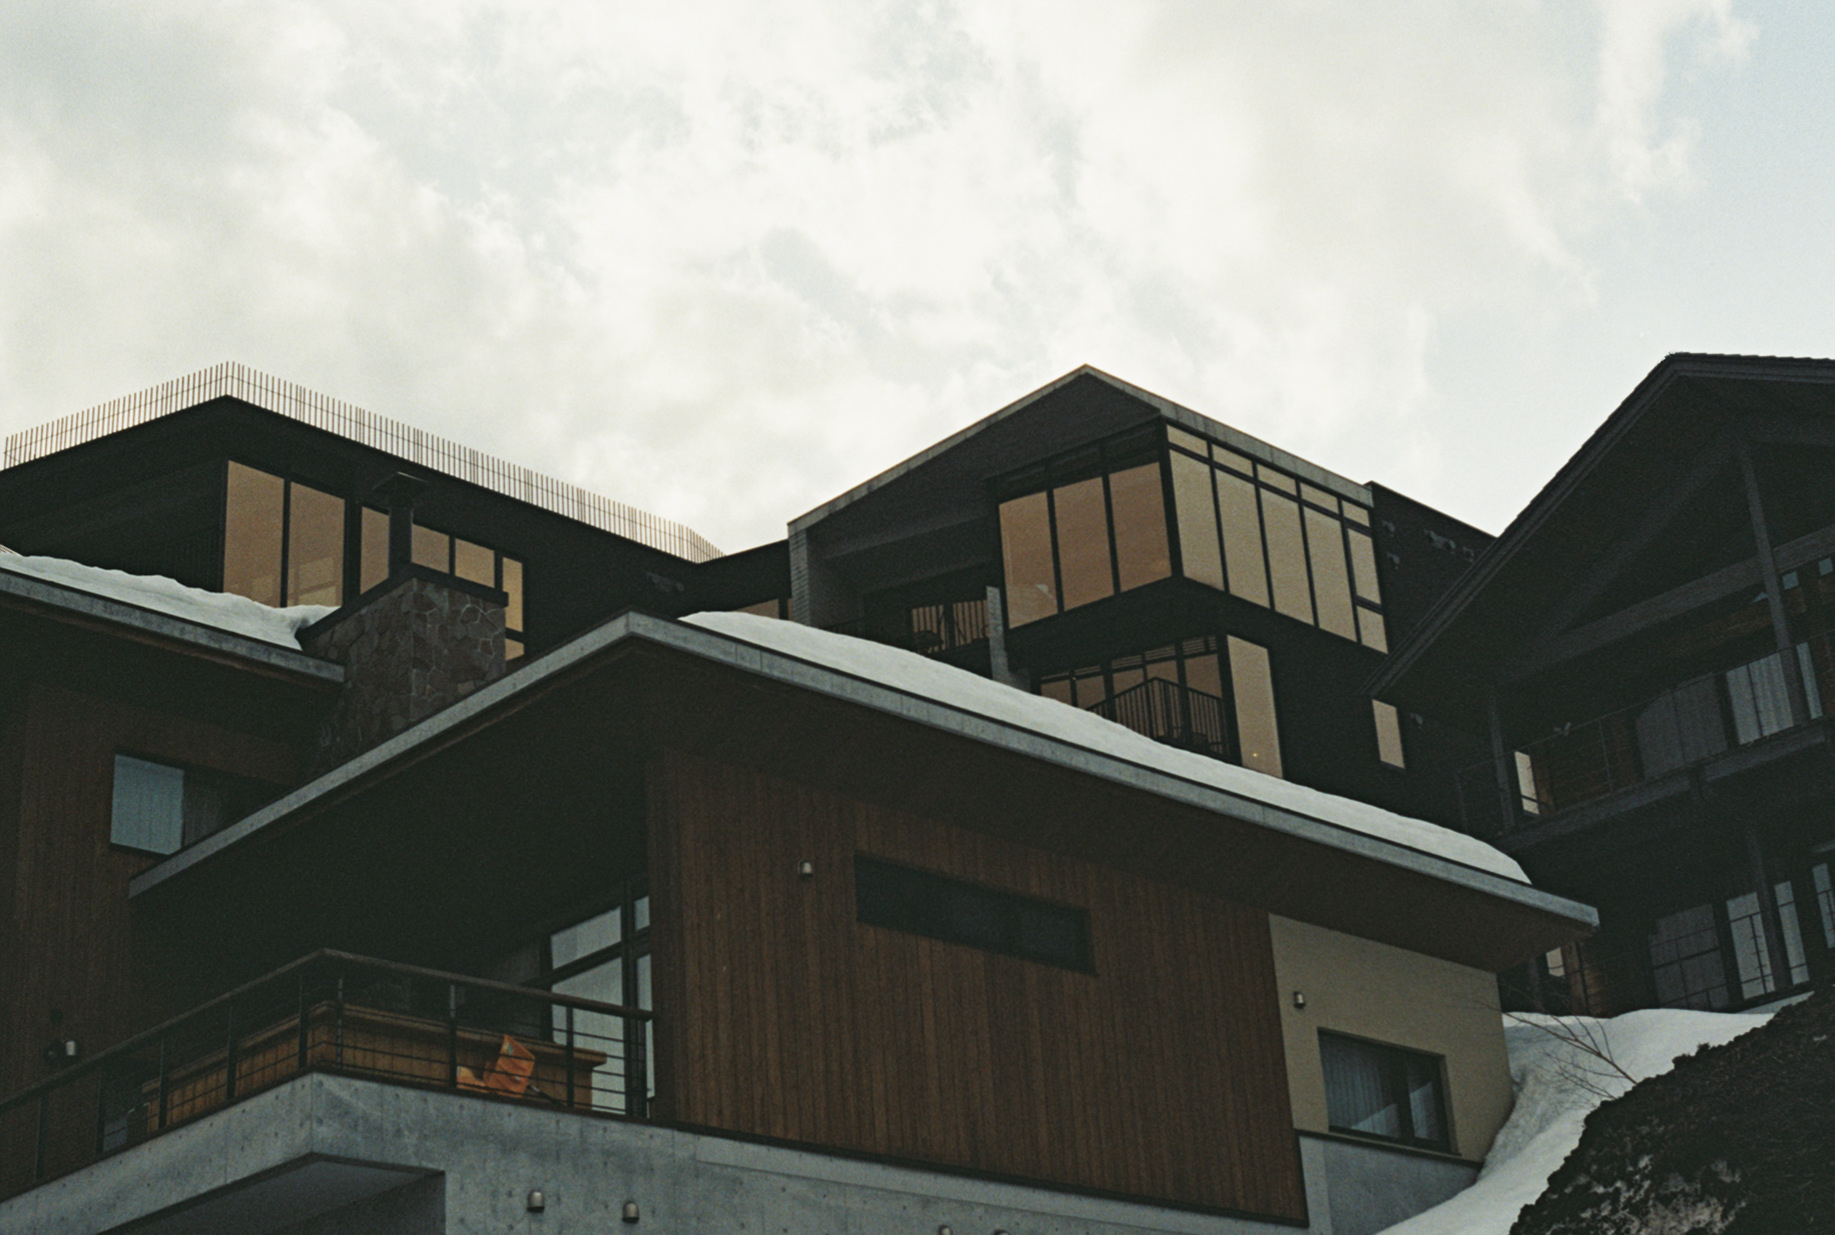
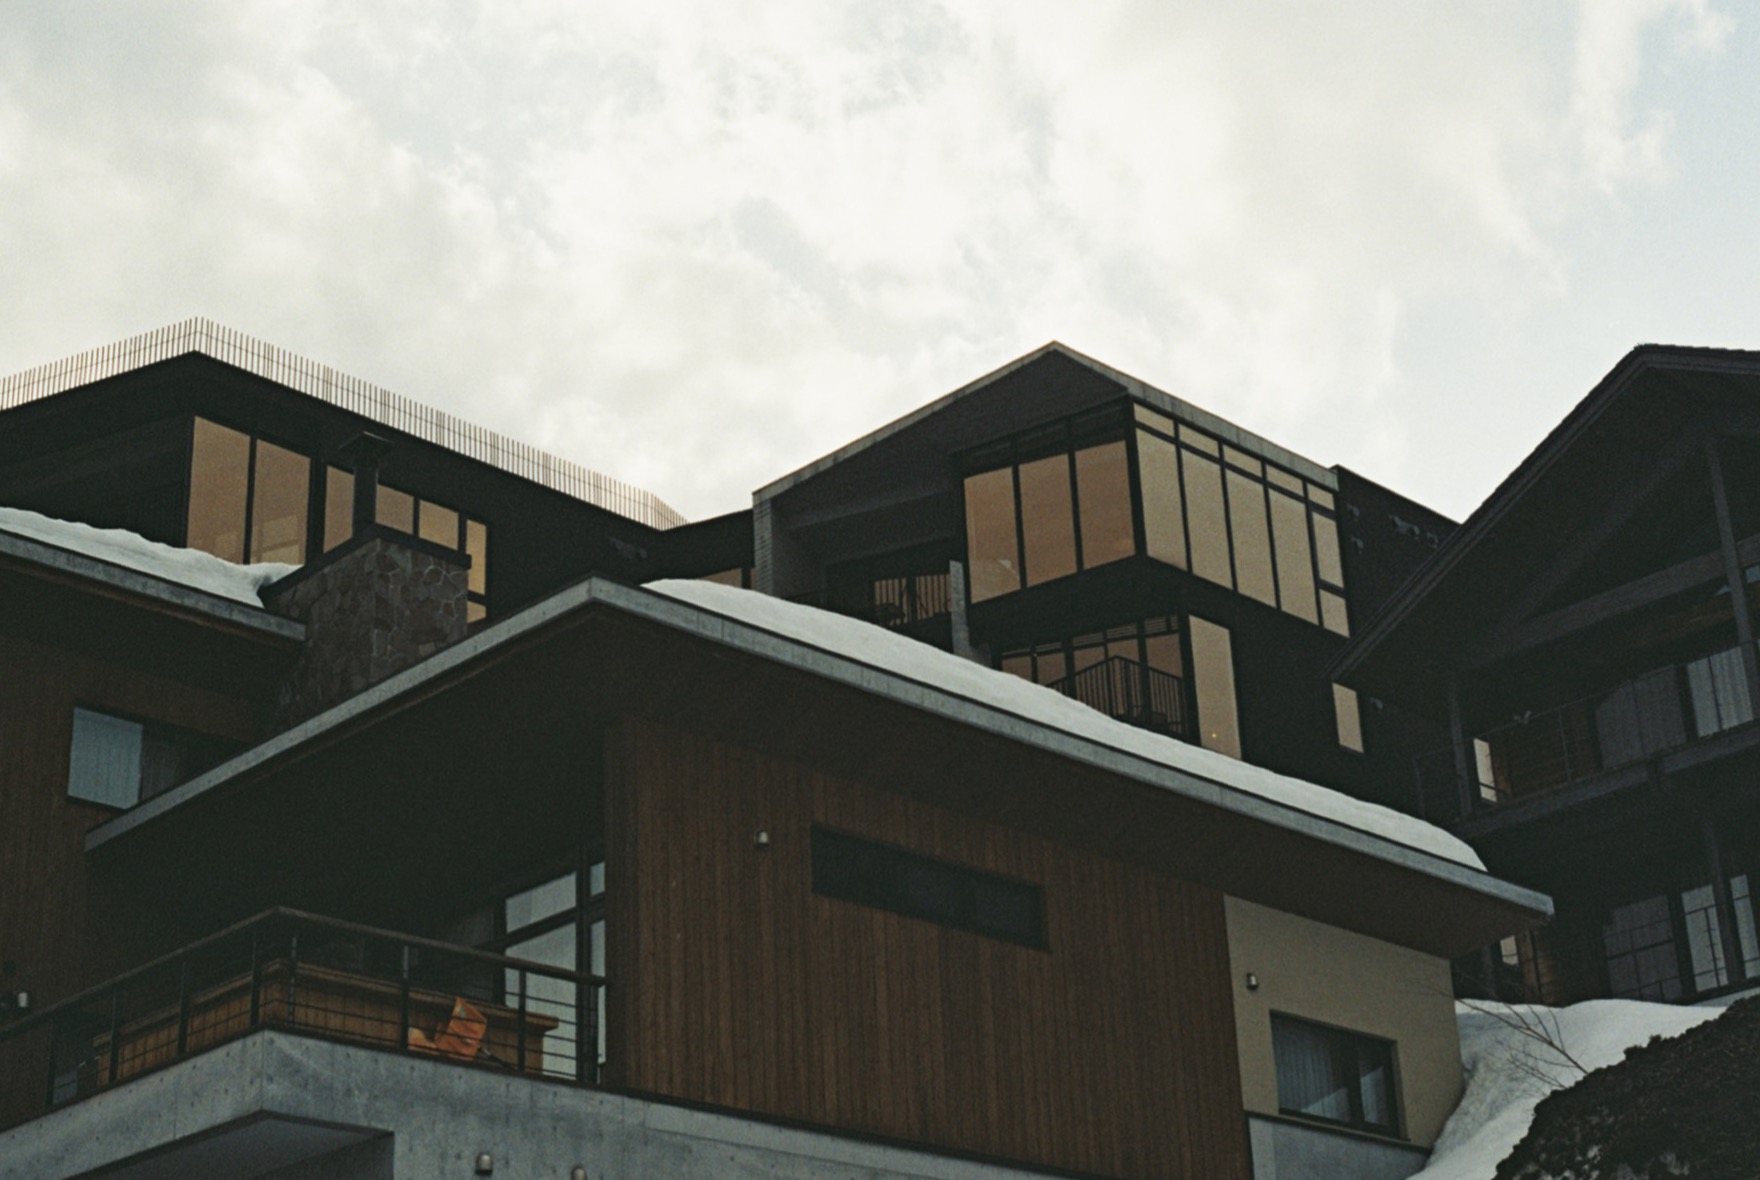
Update photography descriptions, groupings, and straighten horizons on photo 5 and 10

diff --git a/photography.html b/photography.html
@@ -67,49 +67,49 @@
       </div>
 
       <!-- Arch 2 (Wide Structural Facade) -->
-      <div class="collage-item is-wide" data-category="arch" data-title="Structural Rhythm & Facade Alignment" data-tag="02 / Architecture" data-meta="Repetitive Geometry · Glazing & Shadow">
-        <img src="assets/photography/arch/IMG_6335.jpeg" alt="Structural Facade Alignment" loading="lazy">
+      <div class="collage-item is-wide" data-category="arch" data-title="Structural Rhythm & Angular Geometry" data-tag="02 / Architecture" data-meta="Structural Rhythm & Angular Geometry">
+        <img src="assets/photography/arch/IMG_6335.jpeg" alt="Structural Rhythm & Angular Geometry" loading="lazy">
         <div class="collage-caption">
           <div class="collage-caption-inner">
             <span class="collage-tag">02 / Architecture</span>
-            <h3 class="collage-title">Structural Rhythm &amp; Facade Alignment</h3>
-            <p class="collage-meta">Repetitive Geometry · Glazing &amp; Shadow</p>
+            <h3 class="collage-title">Structural Rhythm &amp; Angular Geometry</h3>
+            <p class="collage-meta">Structural Rhythm &amp; Angular Geometry</p>
           </div>
         </div>
       </div>
 
       <!-- Arch 3 (35mm Analog 11A) -->
-      <div class="collage-item" data-category="arch" data-title="35mm Film Study · Exposure 11A" data-tag="02 / Architecture · Analog" data-meta="Analog Film Series · Natural Daylight Depth">
+      <div class="collage-item" data-category="arch" data-title="35mm Film Study · Exposure 11A" data-tag="02 / Architecture · Analog" data-meta="35mm Film · Geometric Stacking">
         <img src="assets/photography/arch/kotara004502-R1-026-11A.jpg" alt="35mm Film Architectural Study 11A" loading="lazy">
         <div class="collage-caption">
           <div class="collage-caption-inner">
             <span class="collage-tag">02 / Architecture · Analog</span>
             <h3 class="collage-title">35mm Film Study · Exposure 11A</h3>
-            <p class="collage-meta">Analog Film Series · Natural Daylight Depth</p>
+            <p class="collage-meta">35mm Film · Geometric Stacking</p>
           </div>
         </div>
       </div>
 
       <!-- Arch 4 (35mm Analog 24A) -->
-      <div class="collage-item" data-category="arch" data-title="35mm Film Study · Exposure 24A" data-tag="02 / Architecture · Analog" data-meta="Analog Film Series · Spatial Framing">
+      <div class="collage-item" data-category="arch" data-title="35mm Film Study · Exposure 24A" data-tag="02 / Architecture · Analog" data-meta="35mm Film · Visual Rhythm">
         <img src="assets/photography/arch/kotara004502-R1-052-24A.jpg" alt="35mm Film Architectural Study 24A" loading="lazy">
         <div class="collage-caption">
           <div class="collage-caption-inner">
             <span class="collage-tag">02 / Architecture · Analog</span>
             <h3 class="collage-title">35mm Film Study · Exposure 24A</h3>
-            <p class="collage-meta">Analog Film Series · Spatial Framing</p>
+            <p class="collage-meta">35mm Film · Visual Rhythm</p>
           </div>
         </div>
       </div>
 
       <!-- Arch 5 (35mm Analog 28A) -->
-      <div class="collage-item" data-category="arch" data-title="35mm Film Study · Exposure 28A" data-tag="02 / Architecture · Analog" data-meta="Analog Film Series · Material Texture">
+      <div class="collage-item" data-category="arch" data-title="35mm Film Study · Exposure 28A" data-tag="02 / Architecture · Analog" data-meta="35mm Film · Facade Texture">
         <img src="assets/photography/arch/kotara004502-R1-060-28A.jpg" alt="35mm Film Architectural Study 28A" loading="lazy">
         <div class="collage-caption">
           <div class="collage-caption-inner">
             <span class="collage-tag">02 / Architecture · Analog</span>
             <h3 class="collage-title">35mm Film Study · Exposure 28A</h3>
-            <p class="collage-meta">Analog Film Series · Material Texture</p>
+            <p class="collage-meta">35mm Film · Facade Texture</p>
           </div>
         </div>
       </div>
@@ -127,86 +127,86 @@
       </div>
 
       <!-- ================= LIGHT STUDIES ITEMS ================= -->
-      <!-- Light 1 (Featured Night Horizon) -->
-      <div class="collage-item is-wide" data-category="light" data-title="Luminous Horizon & Atmospheric Gradient" data-tag="01 / Light Studies" data-meta="Night Sky Luminescence · Color Temperature Gradient">
-        <img src="assets/photography/light/IMG_6082.JPG" alt="Atmospheric Night Light & Horizon" loading="lazy">
+      <!-- Light 1 (Dune Ridge) -->
+      <div class="collage-item is-wide" data-category="light" data-title="Dune Ridge & Visual Gradient" data-tag="01 / Light Studies" data-meta="Natural Lighting · Abstract Nature & Visual Gradient">
+        <img src="assets/photography/light/IMG_6082.JPG" alt="Dune Ridge & Visual Gradient" loading="lazy">
         <div class="collage-caption">
           <div class="collage-caption-inner">
             <span class="collage-tag">01 / Light Studies</span>
-            <h3 class="collage-title">Luminous Horizon &amp; Atmospheric Gradient</h3>
-            <p class="collage-meta">Night Sky Luminescence · Color Temperature Gradient</p>
+            <h3 class="collage-title">Dune Ridge &amp; Visual Gradient</h3>
+            <p class="collage-meta">Natural Lighting · Abstract Nature &amp; Visual Gradient</p>
           </div>
         </div>
       </div>
 
-      <!-- Light 2 (Tall Portrait Fixture Grazing) -->
-      <div class="collage-item is-tall" data-category="light" data-title="Vertical Luminaire Grazing & Shadow Depth" data-tag="01 / Light Studies" data-meta="Optical Grazing Angle · Artificial Illumination">
-        <img src="assets/photography/light/IMG_1770.JPG" alt="Vertical Luminaire Grazing" loading="lazy">
+      <!-- Light 2 (Starburst Chandelier) -->
+      <div class="collage-item is-tall" data-category="light" data-title="Spherical Array & Specular Reflection" data-tag="01 / Light Studies" data-meta="Artificial Light · Spherical Array & Specular Reflection">
+        <img src="assets/photography/light/IMG_1770.JPG" alt="Spherical Array & Specular Reflection" loading="lazy">
         <div class="collage-caption">
           <div class="collage-caption-inner">
             <span class="collage-tag">01 / Light Studies</span>
-            <h3 class="collage-title">Vertical Luminaire Grazing &amp; Shadow Depth</h3>
-            <p class="collage-meta">Optical Grazing Angle · Artificial Illumination</p>
+            <h3 class="collage-title">Spherical Array &amp; Specular Reflection</h3>
+            <p class="collage-meta">Artificial Light · Spherical Array &amp; Specular Reflection</p>
           </div>
         </div>
       </div>
 
-      <!-- Light 3 (Interior Daylighting) -->
-      <div class="collage-item is-wide" data-category="light" data-title="Interior Daylight & Geometric Contrast" data-tag="01 / Light Studies" data-meta="Aperture Daylight · High-Contrast Geometric Shadows">
-        <img src="assets/photography/light/IMG_0251.JPG" alt="Interior Daylight & Geometric Contrast" loading="lazy">
+      <!-- Light 3 (Parametric Kinetic Light Ribs) -->
+      <div class="collage-item is-wide" data-category="light" data-title="Geometric Pattern & Luminous Undulation" data-tag="01 / Light Studies" data-meta="Kinetic Light · Geometric Pattern & Luminous Undulation">
+        <img src="assets/photography/light/IMG_0251.JPG" alt="Geometric Pattern & Luminous Undulation" loading="lazy">
         <div class="collage-caption">
           <div class="collage-caption-inner">
             <span class="collage-tag">01 / Light Studies</span>
-            <h3 class="collage-title">Interior Daylight &amp; Geometric Contrast</h3>
-            <p class="collage-meta">Aperture Daylight · High-Contrast Geometric Shadows</p>
+            <h3 class="collage-title">Geometric Pattern &amp; Luminous Undulation</h3>
+            <p class="collage-meta">Kinetic Light · Geometric Pattern &amp; Luminous Undulation</p>
           </div>
         </div>
       </div>
 
-      <!-- Light 4 (Reflective Glazing) -->
-      <div class="collage-item" data-category="light" data-title="Reflected Glazing & Surface Highlights" data-tag="01 / Light Studies" data-meta="Surface Photometrics · Specular Reflectance">
-        <img src="assets/photography/light/IMG_2694 2.JPG" alt="Reflected Glazing Texture" loading="lazy">
+      <!-- Light 4 (Alpine Lake Reflection) -->
+      <div class="collage-item" data-category="light" data-title="Alpine Lake Reflection & Peak Daylight" data-tag="01 / Light Studies" data-meta="Natural Lighting · Natural Symmetry & Lighting Hierarchy">
+        <img src="assets/photography/light/IMG_2694 2.JPG" alt="Alpine Lake Reflection & Peak Daylight" loading="lazy">
         <div class="collage-caption">
           <div class="collage-caption-inner">
             <span class="collage-tag">01 / Light Studies</span>
-            <h3 class="collage-title">Reflected Glazing &amp; Surface Highlights</h3>
-            <p class="collage-meta">Surface Photometrics · Specular Reflectance</p>
+            <h3 class="collage-title">Alpine Lake Reflection &amp; Peak Daylight</h3>
+            <p class="collage-meta">Natural Lighting · Natural Symmetry &amp; Lighting Hierarchy</p>
           </div>
         </div>
       </div>
 
-      <!-- Light 5 (Warm Ambient Tone) -->
-      <div class="collage-item" data-category="light" data-title="Ambient Warmth & Spatial Illumination" data-tag="01 / Light Studies" data-meta="Warm Illumination · Atmospheric Room Volume">
-        <img src="assets/photography/light/IMG_2556.JPG" alt="Warm Ambient Tone Study" loading="lazy">
+      <!-- Light 5 (Classical Marble Sculpture) -->
+      <div class="collage-item" data-category="light" data-title="Visual Contrast & Subject Illumination" data-tag="01 / Light Studies" data-meta="Chiaroscuro · Visual Contrast & Subject Illumination">
+        <img src="assets/photography/light/IMG_2556.JPG" alt="Visual Contrast & Subject Illumination" loading="lazy">
         <div class="collage-caption">
           <div class="collage-caption-inner">
             <span class="collage-tag">01 / Light Studies</span>
-            <h3 class="collage-title">Ambient Warmth &amp; Spatial Illumination</h3>
-            <p class="collage-meta">Warm Illumination · Atmospheric Room Volume</p>
+            <h3 class="collage-title">Visual Contrast &amp; Subject Illumination</h3>
+            <p class="collage-meta">Chiaroscuro · Visual Contrast &amp; Subject Illumination</p>
           </div>
         </div>
       </div>
 
-      <!-- Light 6 (Specular Highlights) -->
-      <div class="collage-item" data-category="light" data-title="Specular Highlights & Night Reflection" data-tag="01 / Light Studies" data-meta="Point Source Optics · Low-Light Contrast">
-        <img src="assets/photography/light/IMG_3223.JPG" alt="Specular Beam Highlight Study" loading="lazy">
+      <!-- Light 6 (Race Cars on Track) -->
+      <div class="collage-item" data-category="light" data-title="Specular Highlights & Natural Contrast" data-tag="01 / Light Studies" data-meta="Natural Lighting · Specular Highlights & Natural Contrast">
+        <img src="assets/photography/light/IMG_3223.JPG" alt="Specular Highlights & Natural Contrast" loading="lazy">
         <div class="collage-caption">
           <div class="collage-caption-inner">
             <span class="collage-tag">01 / Light Studies</span>
-            <h3 class="collage-title">Specular Highlights &amp; Night Reflection</h3>
-            <p class="collage-meta">Point Source Optics · Low-Light Contrast</p>
+            <h3 class="collage-title">Specular Highlights &amp; Natural Contrast</h3>
+            <p class="collage-meta">Natural Lighting · Specular Highlights &amp; Natural Contrast</p>
           </div>
         </div>
       </div>
 
-      <!-- Light 7 (Soft Diffused Architectural Light) -->
-      <div class="collage-item" data-category="light" data-title="Diffused Light & Minimal Geometry" data-tag="01 / Light Studies" data-meta="Soft Daylight Gradient · Subtle Shadow Transition">
-        <img src="assets/photography/light/FF88A2C2-5958-4D14-BE92-8A539F8DD89C_1_105_c.jpeg" alt="Soft Diffused Light Study" loading="lazy">
+      <!-- Light 7 (Mountain Sunset Silhouette) -->
+      <div class="collage-item" data-category="light" data-title="Minimal Geometry & Silhouetting" data-tag="01 / Light Studies" data-meta="Natural Lighting · Minimal Geometry & Silhouetting">
+        <img src="assets/photography/light/FF88A2C2-5958-4D14-BE92-8A539F8DD89C_1_105_c.jpeg" alt="Minimal Geometry & Silhouetting" loading="lazy">
         <div class="collage-caption">
           <div class="collage-caption-inner">
             <span class="collage-tag">01 / Light Studies</span>
-            <h3 class="collage-title">Diffused Light &amp; Minimal Geometry</h3>
-            <p class="collage-meta">Soft Daylight Gradient · Subtle Shadow Transition</p>
+            <h3 class="collage-title">Minimal Geometry &amp; Silhouetting</h3>
+            <p class="collage-meta">Natural Lighting · Minimal Geometry &amp; Silhouetting</p>
           </div>
         </div>
       </div>
